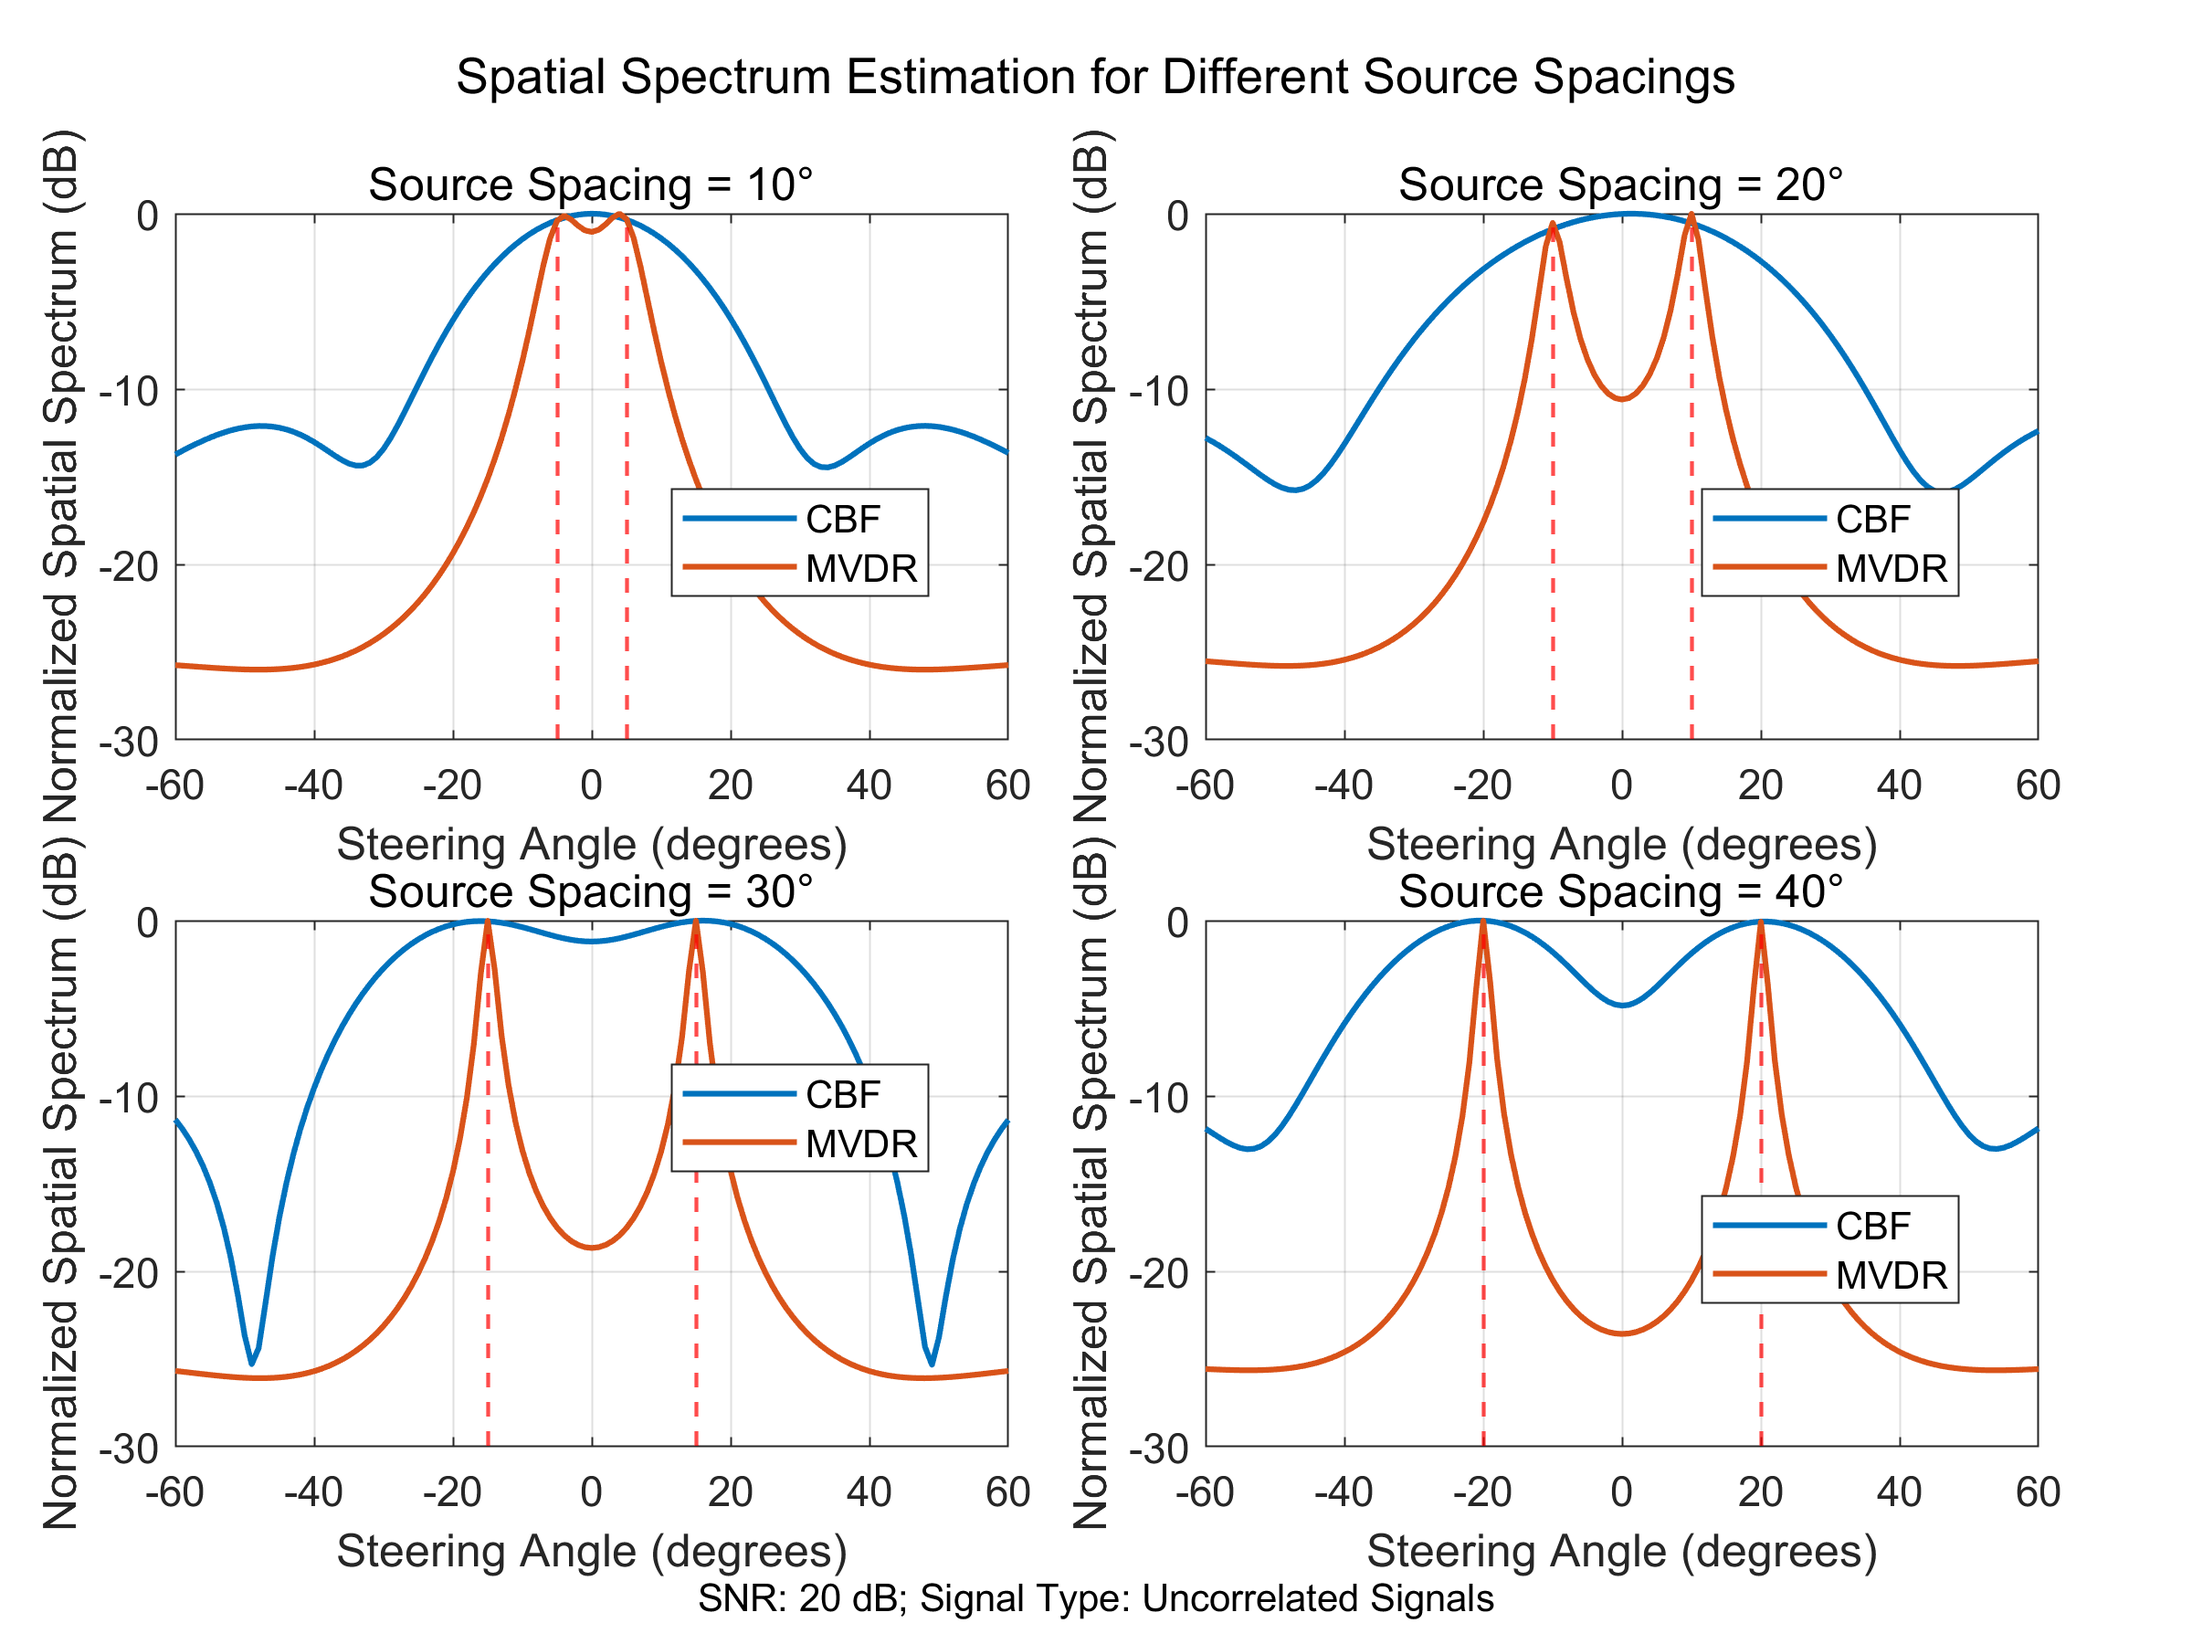
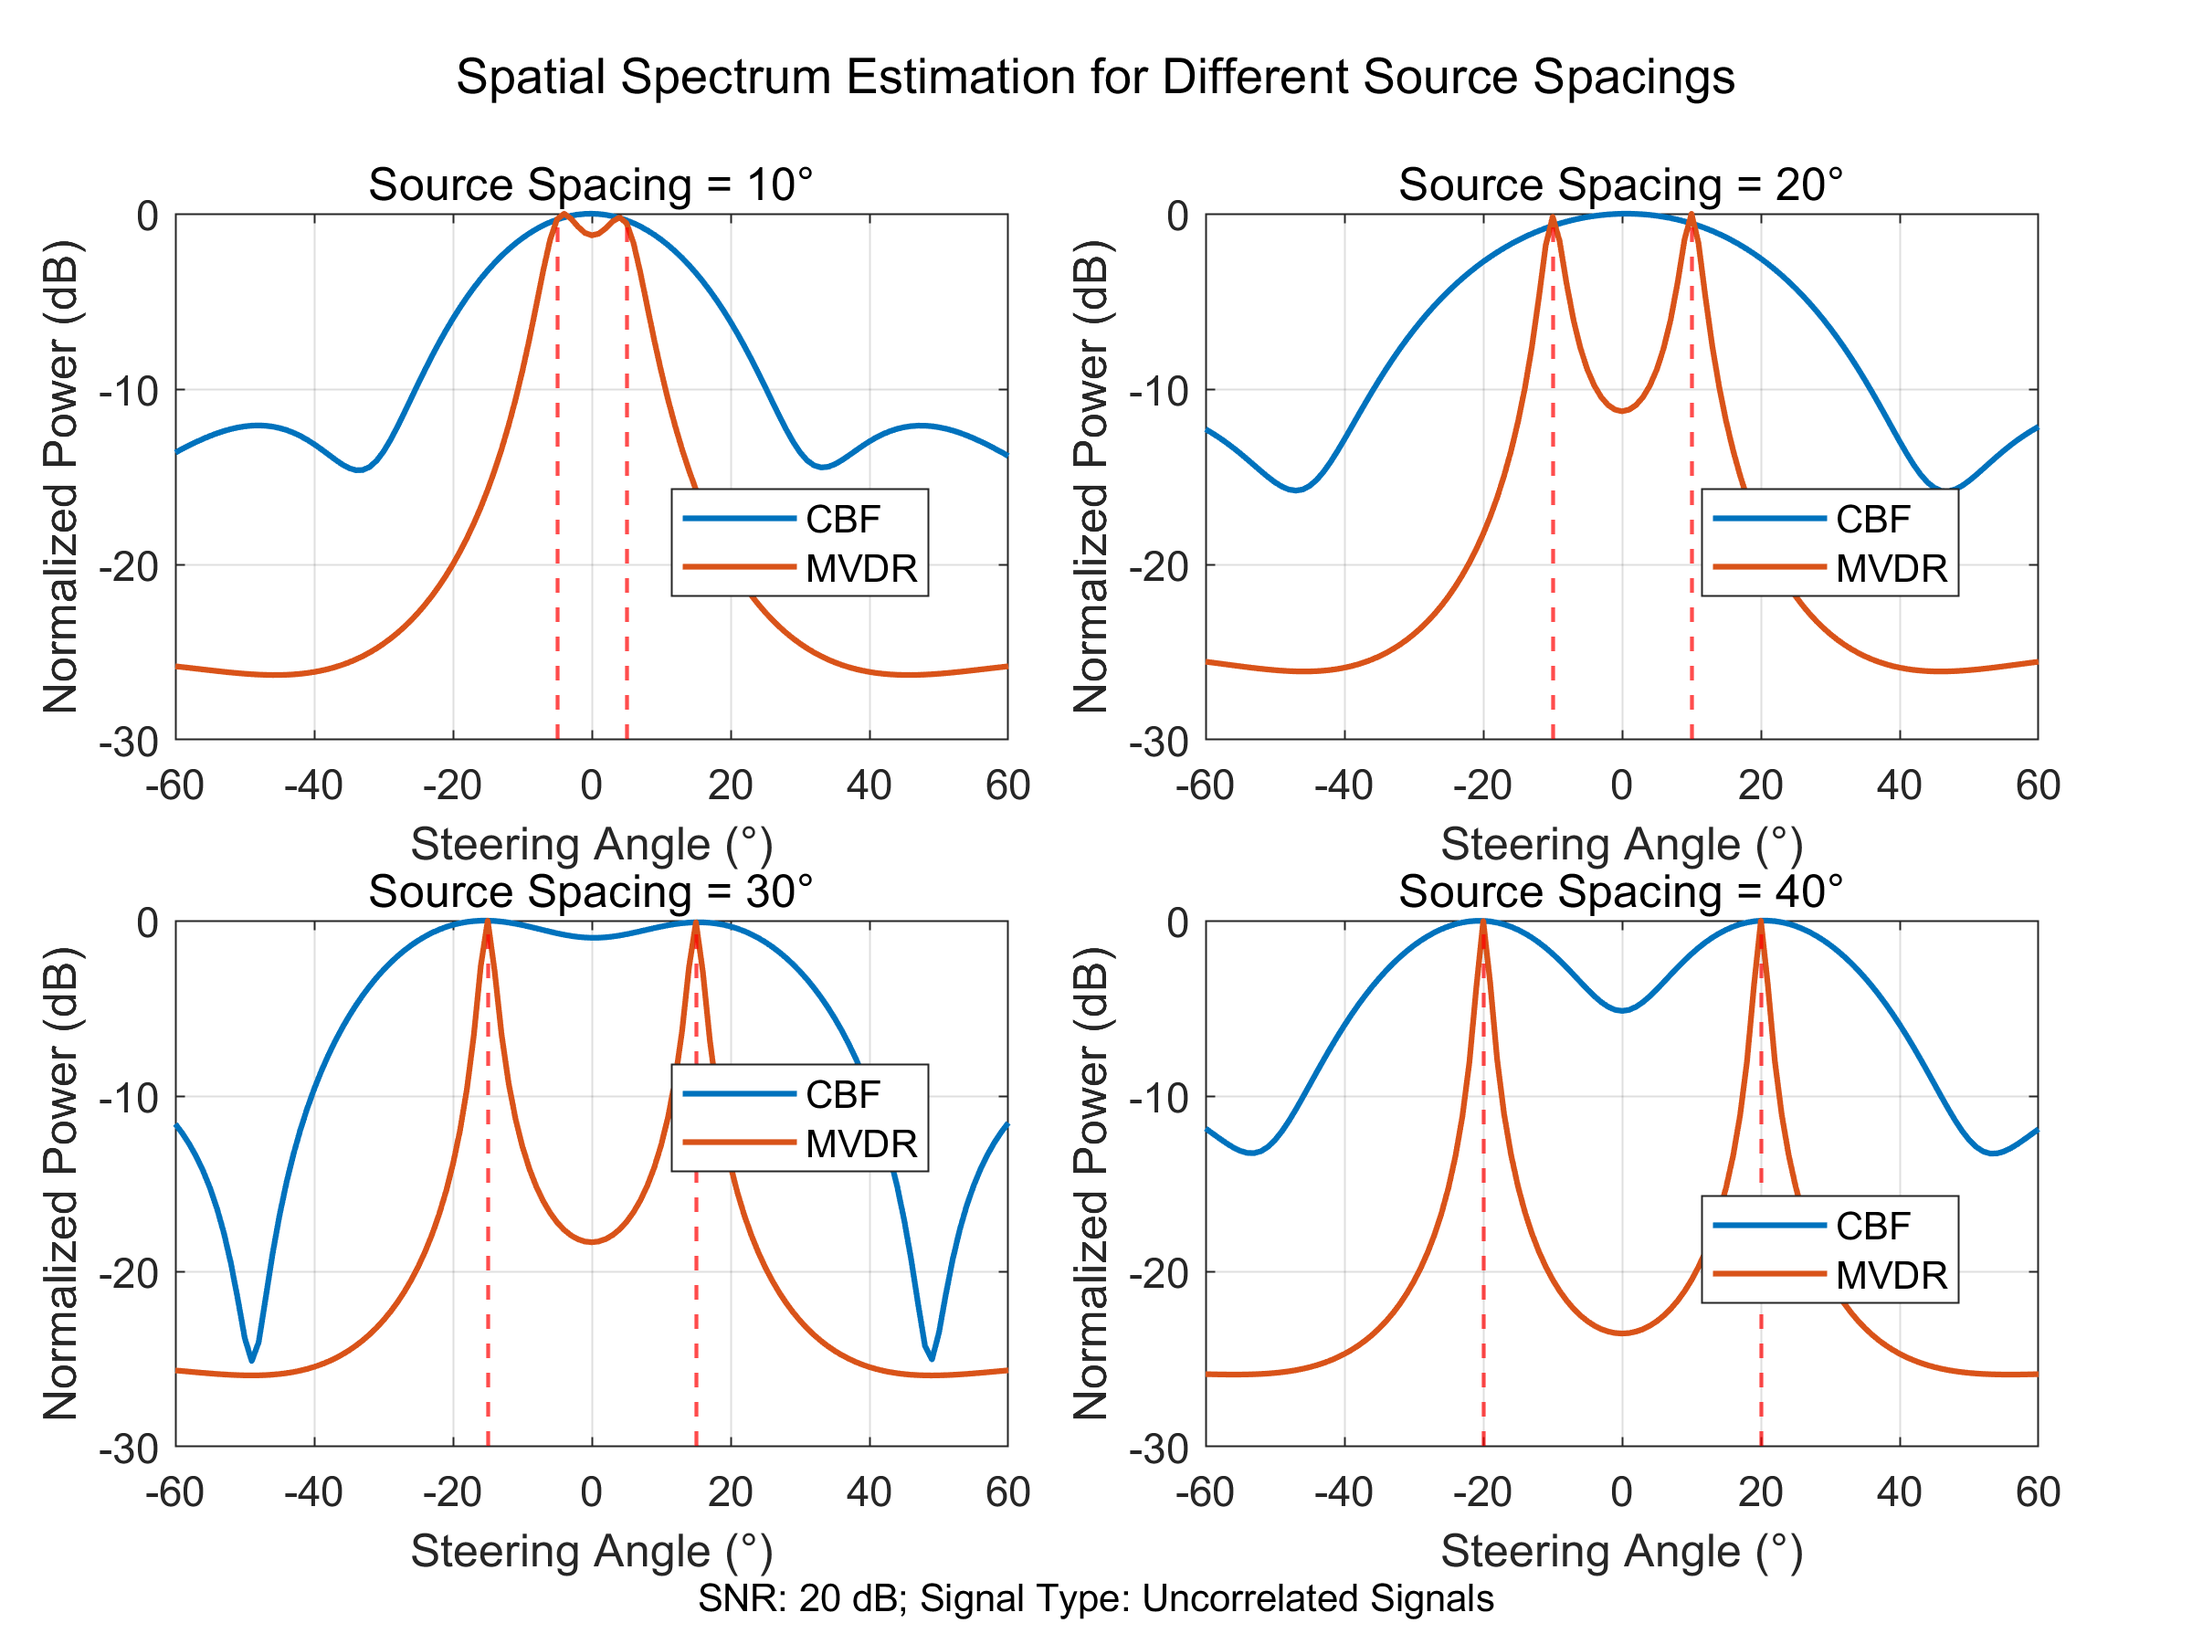
update fig

diff --git a/dsp/scripts/cbf_mvdr_sim.m b/dsp/scripts/cbf_mvdr_sim.m
@@ -85,8 +85,8 @@ for idx = 1:length(snr_values)
     xline(ang1, 'r--', 'LineWidth', 1);
     xline(ang2, 'r--', 'LineWidth', 1);
     legend('CBF', 'MVDR', 'Location', 'best', 'FontSize', FontSize - 2);
-    xlabel('Steering Angle (degrees)', 'FontSize', FontSize - 1);
-    ylabel('Normalized Spatial Spectrum (dB)', 'FontSize', FontSize - 1);
+    xlabel(['Steering Angle ('  char(176) ')'], 'FontSize', FontSize - 1);
+    ylabel('Normalized Power (dB)', 'FontSize', FontSize - 1);
     title(['SNR = ', num2str(snr), ' dB'], 'FontSize', FontSize, 'FontWeight', 'normal');
     grid on;
     set(gca, 'FontSize', FontSize - 1);
@@ -166,8 +166,8 @@ for idx = 1:length(source_spacing_values)
     xline(ang1, 'r--', 'LineWidth', 1);
     xline(ang2, 'r--', 'LineWidth', 1);
     legend('CBF', 'MVDR', 'Location', 'best', 'FontSize', FontSize - 2);
-    xlabel('Steering Angle (degrees)', 'FontSize', FontSize - 1);
-    ylabel('Normalized Spatial Spectrum (dB)', 'FontSize', FontSize - 1);
+    xlabel(['Steering Angle ('  char(176) ')'], 'FontSize', FontSize - 1);
+    ylabel('Normalized Power (dB)', 'FontSize', FontSize - 1);
     title(['Source Spacing = ', num2str(spacing), '°'], 'FontSize', FontSize, 'FontWeight', 'normal');
     grid on;
     set(gca, 'FontSize', FontSize - 1);
@@ -269,8 +269,8 @@ for idx = 1:length(signal_types)
     xline(ang1, 'r--', 'LineWidth', 1);
     xline(ang2, 'r--', 'LineWidth', 1);
     legend('CBF', 'MVDR', 'Location', 'best', 'FontSize', FontSize - 2);
-    xlabel('Steering Angle (degrees)', 'FontSize', FontSize - 1);
-    ylabel('Normalized Spatial Spectrum (dB)', 'FontSize', FontSize - 1);
+    xlabel(['Steering Angle ('  char(176) ')'], 'FontSize', FontSize - 1);
+    ylabel('Normalized Power (dB)', 'FontSize', FontSize - 1);
     title(['Signal Type: ', sig_type], 'FontSize', FontSize, 'FontWeight', 'normal');
     grid on;
     set(gca, 'FontSize', FontSize - 1);
